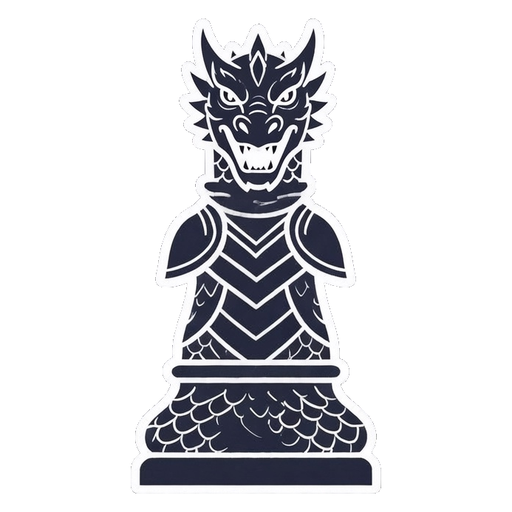
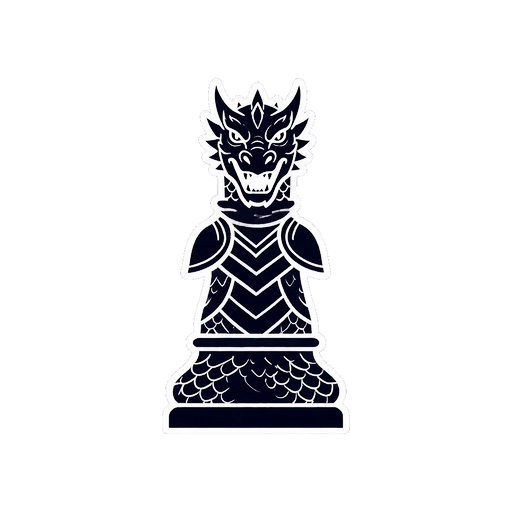
v0.6.12 - dragon pawn: smaller (reads as a pawn) + cream tone matched to set; SW cache v5

Changed region(s): [[0.25, 0.0625, 0.75, 0.9688]]

diff --git a/public/service-worker.js b/public/service-worker.js
@@ -12,7 +12,7 @@
  * Bump CACHE when you change a STABLE-named asset (e.g. a regenerated piece
  * PNG) and want every client to drop the old copy. Hashed bundles don't need it.
  */
-const CACHE = 'chess-cadet-v4';
+const CACHE = 'chess-cadet-v5';
 
 const PRECACHE = [
   './',

diff --git a/src/version.js b/src/version.js
@@ -1,3 +1,3 @@
 // Single source of truth for the displayed app version.
 // Keep in sync with package.json on each release.
-export const VERSION = '0.6.11';
+export const VERSION = '0.6.12';

diff --git a/Chess sets from grok/process_dragon_pawn.py b/Chess sets from grok/process_dragon_pawn.py
@@ -32,11 +32,30 @@ ys, xs = np.where(alpha > 0)
 crop = out.crop((xs.min(), ys.min(), xs.max() + 1, ys.max() + 1))
 
 side = max(crop.size)
-pad = int(side * 0.04)  # less padding so it sizes up to match the bold set
+pad = int(side * 0.22)  # generous margin so the pawn reads SMALLER than the majors
 canvas = Image.new("RGBA", (side + 2 * pad, side + 2 * pad), (0, 0, 0, 0))
 canvas.paste(crop, ((canvas.size[0] - crop.size[0]) // 2, (canvas.size[1] - crop.size[1]) // 2), crop)
 canvas = canvas.resize((512, 512), Image.LANCZOS)
+
+# Match the cream tone to the rest of the bold set (sample the knight's cream) so
+# the white pawn isn't a darker shade than the other white pieces.
+def cream_mean(a):
+    op = a[:, :, 3] > 0
+    lum = a[:, :, :3].mean(axis=2)
+    m = op & (lum > 150)
+    return a[:, :, :3][m].mean(axis=0) if m.any() else np.array([255.0, 255.0, 255.0])
+
+ref = np.array(Image.open("F:/Software Builds/chess-cadet/public/pieces/dragons-bold/wN.png").convert("RGBA"))
+cv = np.array(canvas).astype(float)
+shift = cream_mean(ref) - cream_mean(np.array(canvas))
+op = cv[:, :, 3] > 0
+lum = cv[:, :, :3].mean(axis=2)
+mask = op & (lum > 120)            # the cream fill (leave the dark outline alone)
+for c in range(3):
+    cv[:, :, c][mask] = np.clip(cv[:, :, c][mask] + shift[c], 0, 255)
+canvas = Image.fromarray(cv.astype(np.uint8), "RGBA")
 canvas.save(os.path.join(OUT, "wP.png"))
+print("cream shift applied:", shift.round(1))
 
 # Black = invert RGB on opaque pixels (matches how the dragon black set is made).
 b = np.array(canvas)
